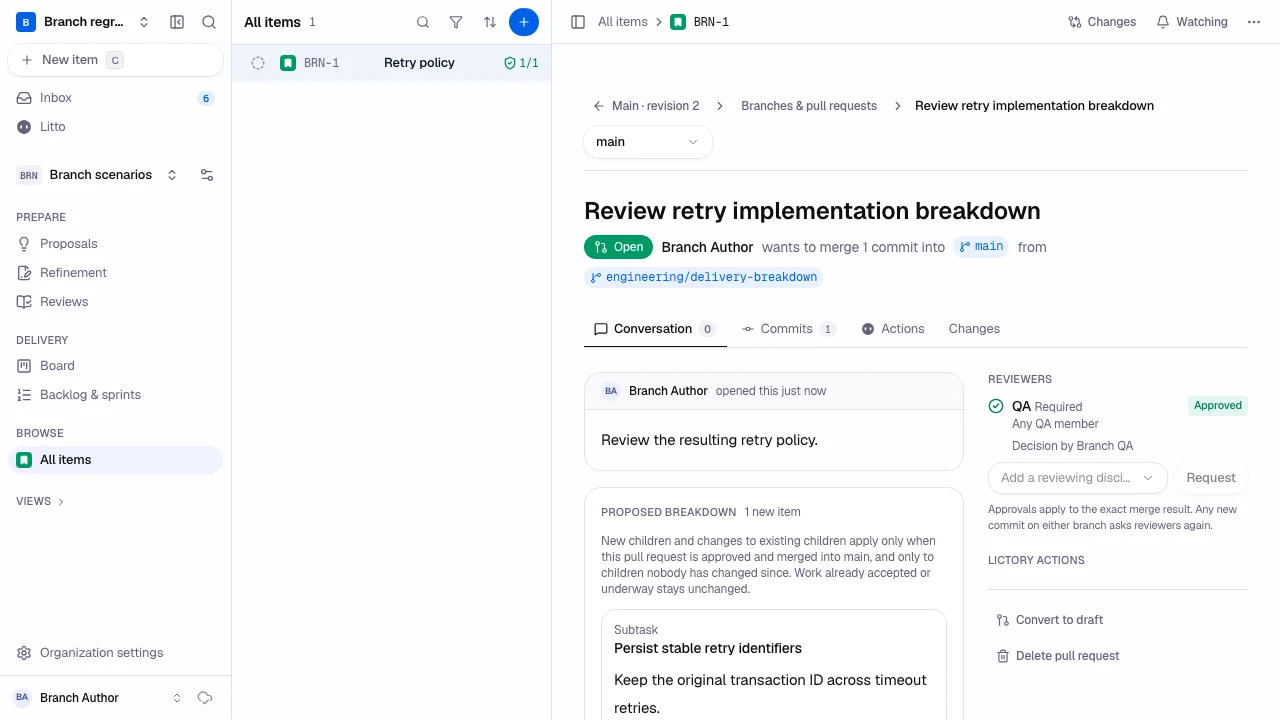
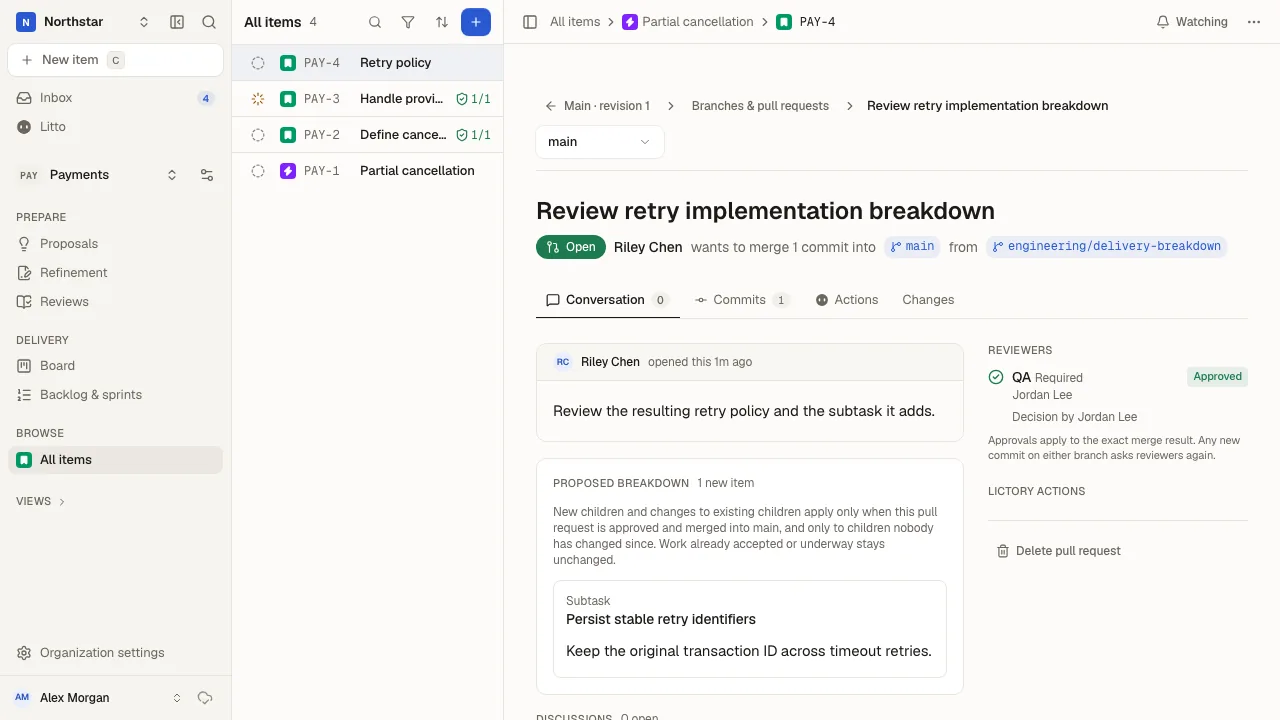
docs: refresh product screenshots in the unified design

diff --git a/apps/platform/src/components/items/item-workflow.tsx b/apps/platform/src/components/items/item-workflow.tsx
@@ -203,7 +203,7 @@ export function ItemWorkflow({
         </Segment>
       )}
       {item.blockingThreads > 0 && (
-        <span className="ml-0.5 rounded-full bg-destructive/8 px-2 py-0.5 font-medium whitespace-nowrap text-destructive">
+        <span className="rounded-full bg-destructive/8 px-2 py-0.5 font-medium whitespace-nowrap text-destructive">
           {item.blockingThreads} blocking discussion
           {item.blockingThreads === 1 ? "" : "s"}
         </span>
@@ -281,15 +281,15 @@ function StateRow({ label, children }: { label: string; children: ReactNode }) {
       <dt className="text-[11px] font-medium tracking-wide text-muted-foreground uppercase">
         {label}
       </dt>
-      <dd className="flex min-w-0 flex-wrap items-center gap-x-1.5 gap-y-1">
+      <dd className="flex min-w-0 flex-wrap items-center gap-x-3 gap-y-1">
         {children}
       </dd>
     </div>
   );
 }
 
-// A separator travels with the fact after it, so a wrapped line never starts
-// or ends with a stray dot.
+// Facts in a state row are separated by space rather than dots, so a wrapped
+// line never starts or ends with a stray separator.
 function Segment({
   className,
   children,
@@ -297,10 +297,5 @@ function Segment({
   className?: string;
   children: ReactNode;
 }) {
-  return (
-    <span className="inline-flex items-center gap-1.5 whitespace-nowrap">
-      <span aria-hidden>·</span>
-      <span className={className}>{children}</span>
-    </span>
-  );
+  return <span className={cn("whitespace-nowrap", className)}>{children}</span>;
 }
